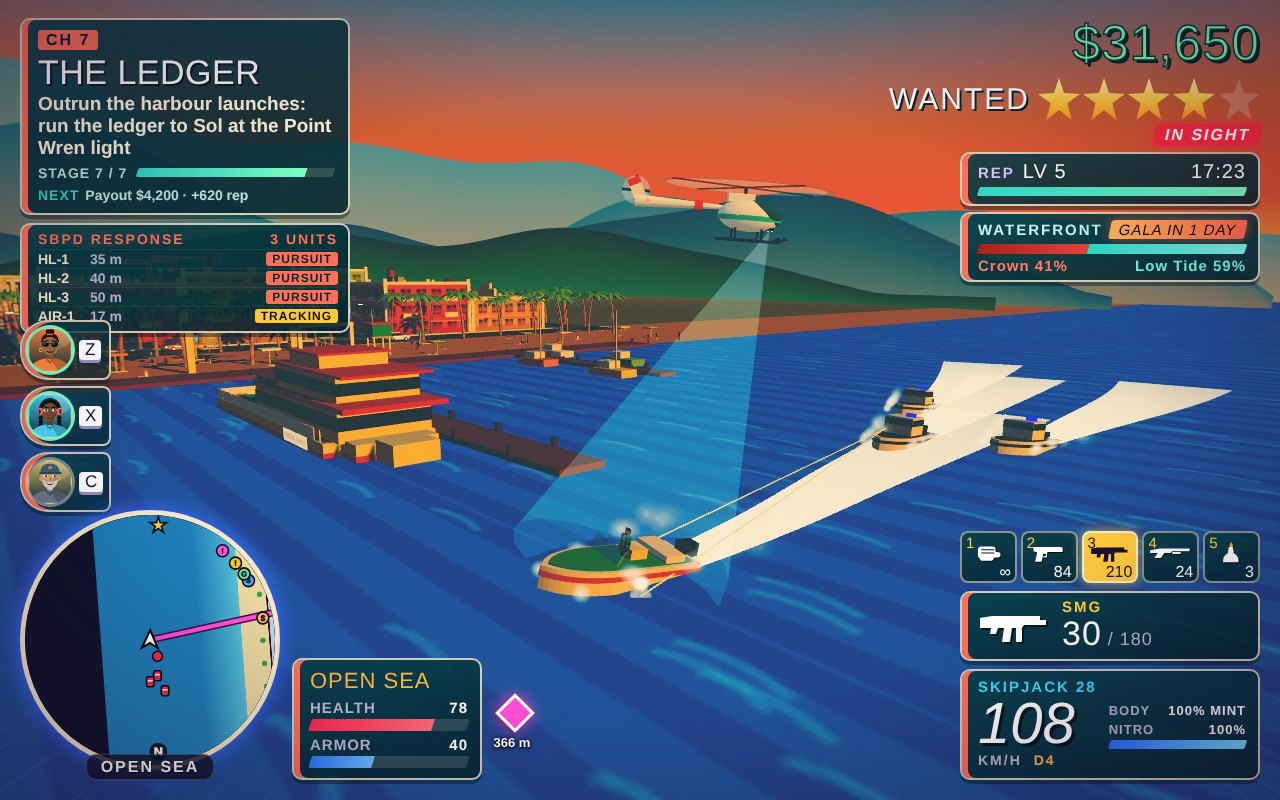
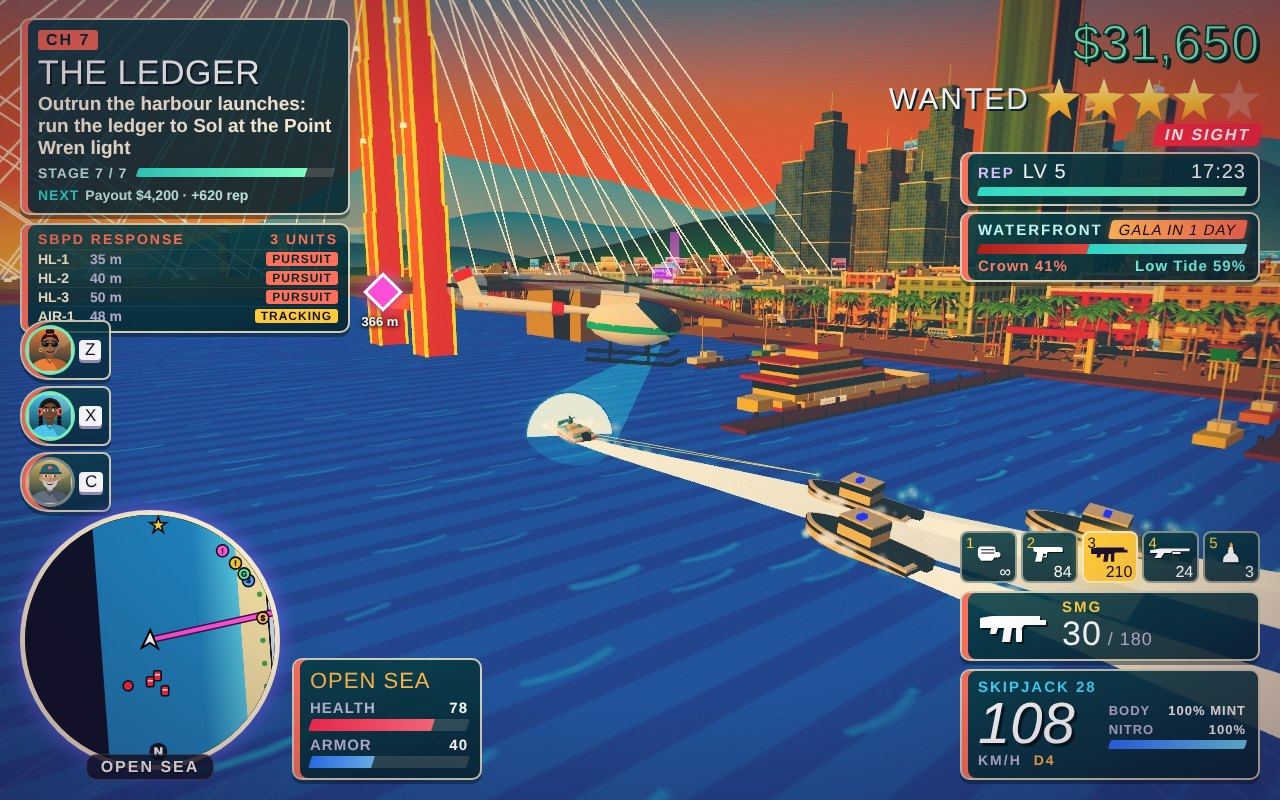
Marina shot widened: looking south-west past the launches and AIR-1 (in profile, beam on the Skipjack) to the Causeway pylon, the downtown skyline, the yacht and the palm shore
Claude-Session: https://claude.ai/code/session_01KYFnKsdg5D9jxoFvsNJNKP

diff --git a/game/src/shots/marinaChaseScene.js b/game/src/shots/marinaChaseScene.js
@@ -1,6 +1,6 @@
 // Screenshot 4: a different place and hour, the sea off Marina Cala at sunset (chapter 7, The Ledger). Nico runs the
 // stolen ledger south in the Skipjack speedboat with three SBPD harbour launches in his wake and AIR-1 overhead with its
-// searchlight on him, past Brandt's yacht, the marina piers, the beach and the downtown skyline, toward the Causeway.
+// searchlight on him, past Brandt's yacht, the marina piers, the palm shore and the downtown skyline, under the Causeway pylon.
 // The boats are driven by the real boat physics for a few seconds so the wakes are genuine. Full HUD with the boat gauge.
 import { G } from '../core/gameState.js';
 import { HALF, N } from '../core/config.js';
@@ -15,7 +15,7 @@ import { mooredSpeedboat } from '../missions/ledgerHeist.js';
 import { setScene, setMission, trafficAt, strollers, heliAt, frame, renderShot } from './sceneStaging.js';
 
 export const MARINA = { clock: 17.4, start: [418, -232, 0.12], speed: 27, steps: 110, launches: [[410, -262, 0.2], [426, -268, 0.05], [400, -276, 0.3]],
-  cam: [446, 13, -160], look: [388, 0, -214], fov: 58 };
+  cam: [466, 19, -246], look: [404, 0, -168], fov: 58 };
 export function marinaChase(api) {
   const p = G.p, M = MARINA;
   setScene({ clock: M.clock, money: 31650, xp: 1900, completed: ['m1', 'm2', 'm3', 'm4', 'm5', 'm6'], hp: 78, armor: 40, weapon: 2, magic: 1, blaze: 0.9, crew: { cd: { wren: 12 }, swaps: 1 } });
@@ -26,7 +26,7 @@ export function marinaChase(api) {
   // the lead launch's bow gunner walks a burst across the water toward the Skipjack
   const lead = launches[0]; for (let k = 0; k < 2; k++) boatShot(lead.x + Math.sin(lead.heading) * 3.6, 1.9, lead.z + Math.cos(lead.heading) * 3.6, b, 3, 0);
   for (let i = 0; i < 4; i++) { G.time += 1 / 60; updateEffects(1 / 60); }
-  heliAt(b.x - 6, 17, b.z - 16, 2.4, [b.x, b.z]).cone.material.opacity = 0.09;
+  heliAt(b.x + 24, 16.5, b.z - 42, -2.2, [b.x, b.z]).cone.material.opacity = 0.09;
   // evening traffic on the Strand and people on the promenade and the sand
   trafficAt('z', N, -150, -1, 'tidebus'); trafficAt('z', N, -190, 1, 'rumble', 0xff8a3d); trafficAt('z', N, -120, 1, 'tupelo'); trafficAt('z', N, -230, -1, 'hawke', 0xf0f0f0); trafficAt('z', N, -95, -1, 'calder', 0x2fb89a);
   strollers(HALF + 9.4, -100, HALF + 9.4, -240, 10); strollers(HALF + 20, -110, HALF + 30, -230, 9, { jitter: 8 });
